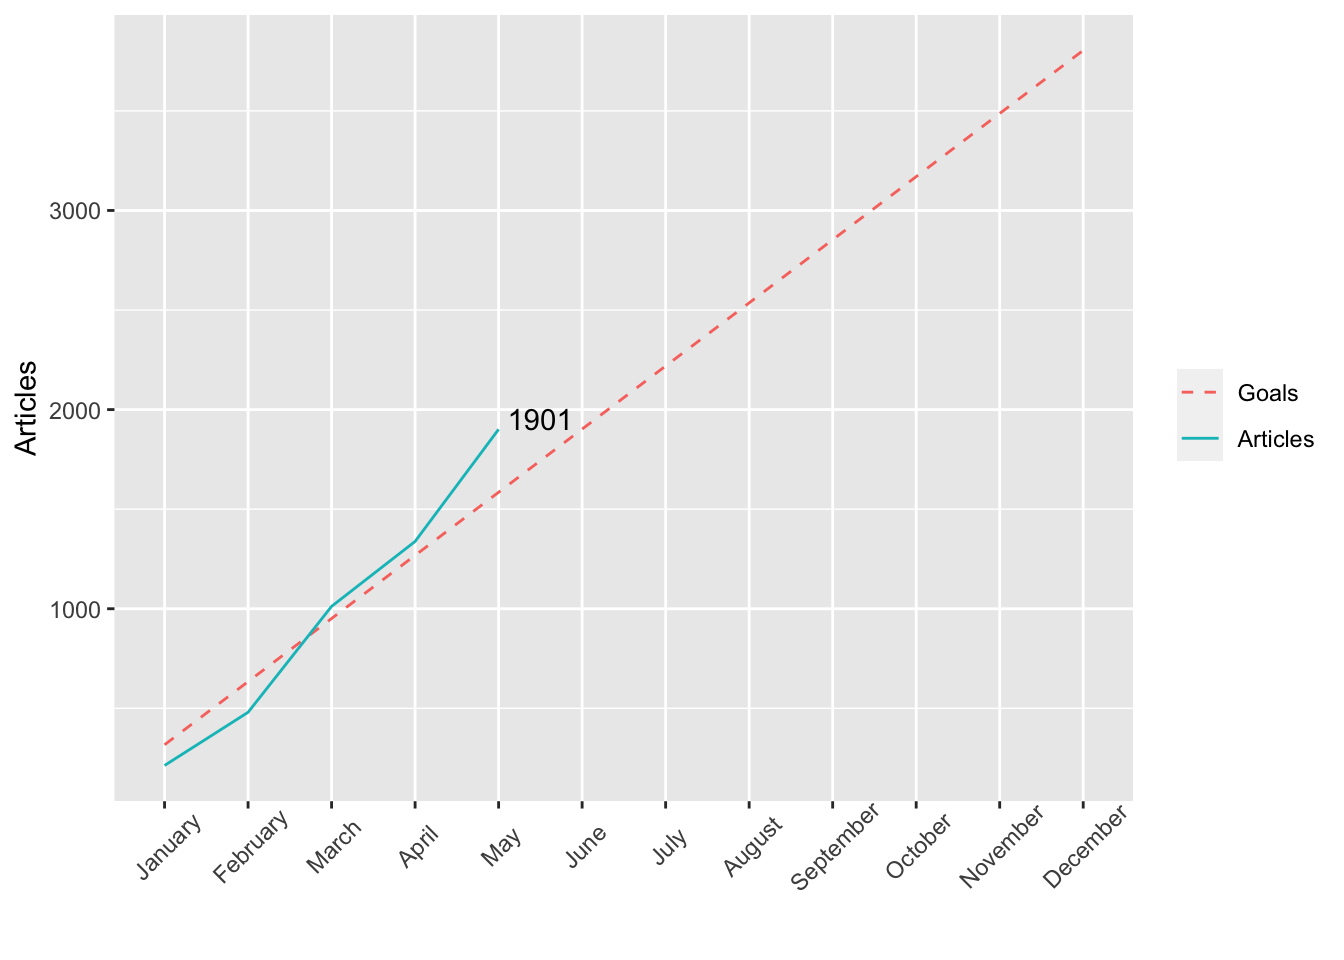
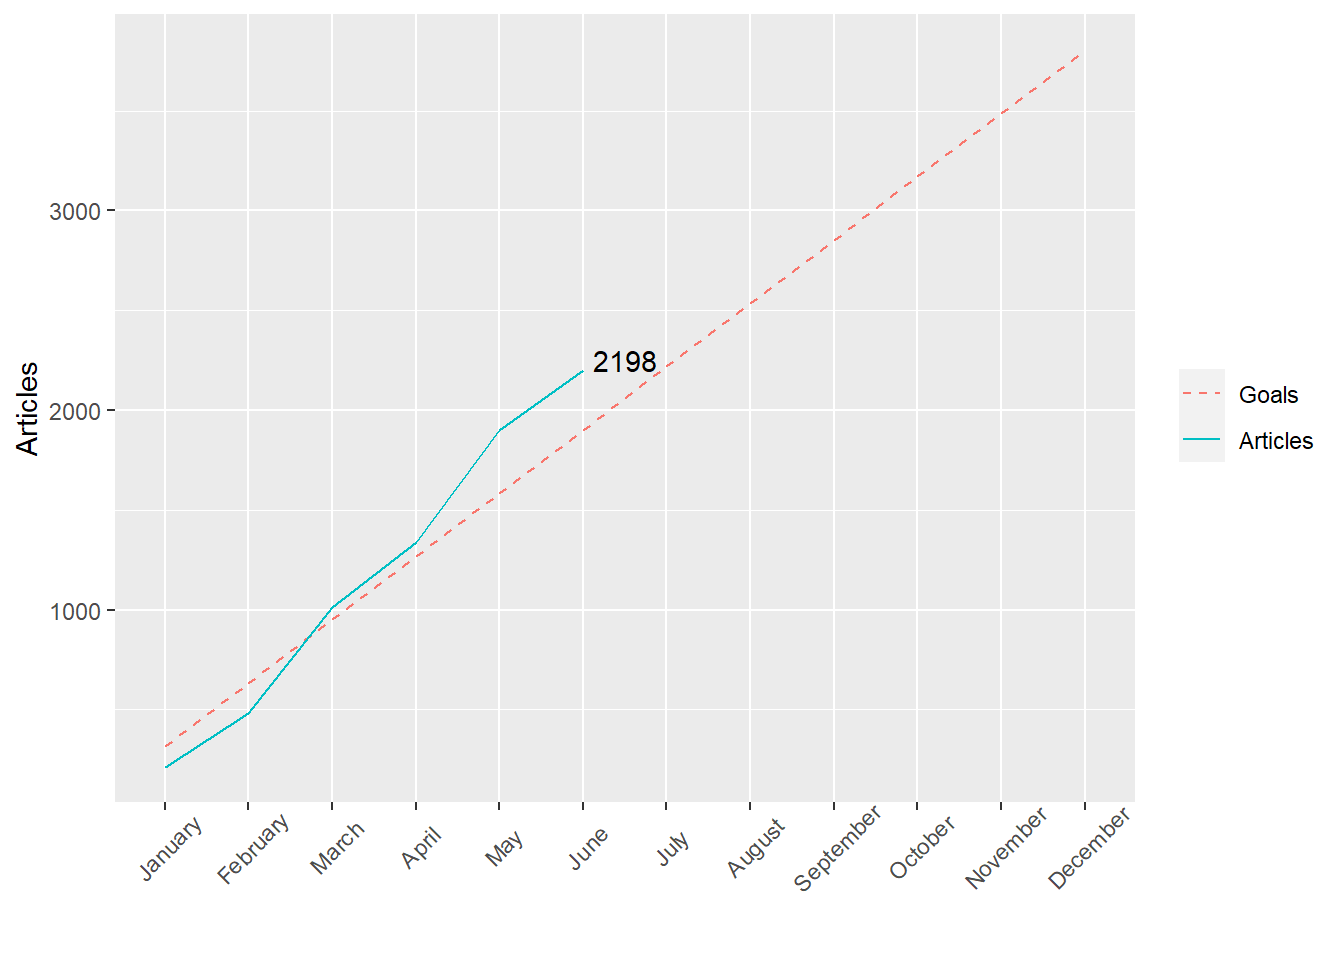
Updated the June YTD

diff --git a/docs/YearToDate.html b/docs/YearToDate.html
@@ -13,17 +13,25 @@
 
 <title>Year-To-Date</title>
 
+<script src="site_libs/header-attrs-2.9/header-attrs.js"></script>
 <script src="site_libs/jquery-1.11.3/jquery.min.js"></script>
 <meta name="viewport" content="width=device-width, initial-scale=1" />
 <link href="site_libs/bootstrap-3.3.5/css/bootstrap.min.css" rel="stylesheet" />
 <script src="site_libs/bootstrap-3.3.5/js/bootstrap.min.js"></script>
 <script src="site_libs/bootstrap-3.3.5/shim/html5shiv.min.js"></script>
 <script src="site_libs/bootstrap-3.3.5/shim/respond.min.js"></script>
+<style>h1 {font-size: 34px;}
+       h1.title {font-size: 38px;}
+       h2 {font-size: 30px;}
+       h3 {font-size: 24px;}
+       h4 {font-size: 18px;}
+       h5 {font-size: 16px;}
+       h6 {font-size: 12px;}
+       code {color: inherit; background-color: rgba(0, 0, 0, 0.04);}
+       pre:not([class]) { background-color: white }</style>
 <script src="site_libs/navigation-1.1/tabsets.js"></script>
 <link href="site_libs/highlightjs-9.12.0/default.css" rel="stylesheet" />
 <script src="site_libs/highlightjs-9.12.0/highlight.js"></script>
-<link href="site_libs/anchor-sections-1.0/anchor-sections.css" rel="stylesheet" />
-<script src="site_libs/anchor-sections-1.0/anchor-sections.js"></script>
 
 <style type="text/css">
   code{white-space: pre-wrap;}
@@ -35,11 +43,6 @@
     </style>
 
 <style type="text/css">code{white-space: pre;}</style>
-<style type="text/css">
-  pre:not([class]) {
-    background-color: white;
-  }
-</style>
 <script type="text/javascript">
 if (window.hljs) {
   hljs.configure({languages: []});
@@ -52,32 +55,7 @@ if (window.hljs) {
 
 
 
-<style type="text/css">
-h1 {
-  font-size: 34px;
-}
-h1.title {
-  font-size: 38px;
-}
-h2 {
-  font-size: 30px;
-}
-h3 {
-  font-size: 24px;
-}
-h4 {
-  font-size: 18px;
-}
-h5 {
-  font-size: 16px;
-}
-h6 {
-  font-size: 12px;
-}
-.table th:not([align]) {
-  text-align: left;
-}
-</style>
+
 
 
 
@@ -87,10 +65,6 @@ h6 {
   max-width: 940px;
   margin-left: auto;
   margin-right: auto;
-}
-code {
-  color: inherit;
-  background-color: rgba(0, 0, 0, 0.04);
 }
 img {
   max-width:100%;
@@ -107,40 +81,13 @@ button.code-folding-btn:focus {
 summary {
   display: list-item;
 }
+pre code {
+  padding: 0;
+}
 </style>
 
 
 <style type="text/css">
-/* padding for bootstrap navbar */
-body {
-  padding-top: 51px;
-  padding-bottom: 40px;
-}
-/* offset scroll position for anchor links (for fixed navbar)  */
-.section h1 {
-  padding-top: 56px;
-  margin-top: -56px;
-}
-.section h2 {
-  padding-top: 56px;
-  margin-top: -56px;
-}
-.section h3 {
-  padding-top: 56px;
-  margin-top: -56px;
-}
-.section h4 {
-  padding-top: 56px;
-  margin-top: -56px;
-}
-.section h5 {
-  padding-top: 56px;
-  margin-top: -56px;
-}
-.section h6 {
-  padding-top: 56px;
-  margin-top: -56px;
-}
 .dropdown-submenu {
   position: relative;
 }
@@ -168,7 +115,7 @@ body {
   margin-right: -10px;
 }
 .dropdown-submenu:hover>a:after {
-  border-left-color: #ffffff;
+  border-left-color: #adb5bd;
 }
 .dropdown-submenu.pull-left {
   float: none;
@@ -180,7 +127,7 @@ body {
 }
 </style>
 
-<script>
+<script type="text/javascript">
 // manage active state of menu based on current page
 $(document).ready(function () {
   // active menu anchor
@@ -191,10 +138,23 @@ $(document).ready(function () {
   var menuAnchor = $('a[href="' + href + '"]');
 
   // mark it active
-  menuAnchor.parent().addClass('active');
+  menuAnchor.tab('show');
 
   // if it's got a parent navbar menu mark it active as well
   menuAnchor.closest('li.dropdown').addClass('active');
+
+  // Navbar adjustments
+  var navHeight = $(".navbar").first().height() + 15;
+  var style = document.createElement('style');
+  var pt = "padding-top: " + navHeight + "px; ";
+  var mt = "margin-top: -" + navHeight + "px; ";
+  var css = "";
+  // offset scroll position for anchor links (for fixed navbar)
+  for (var i = 1; i <= 6; i++) {
+    css += ".section h" + i + "{ " + pt + mt + "}\n";
+  }
+  style.innerHTML = "body {" + pt + "padding-bottom: 40px; }\n" + css;
+  document.head.appendChild(style);
 });
 </script>
 
@@ -206,7 +166,6 @@ $(document).ready(function () {
   max-height: 500px;
   min-height: 44px;
   overflow-y: auto;
-  background: white;
   border: 1px solid #ddd;
   border-radius: 4px;
 }
@@ -299,12 +258,12 @@ $(document).ready(function () {
   </div><!--/.container -->
 </div><!--/.navbar -->
 
-<div class="fluid-row" id="header">
+<div id="header">
 
 
 
 <h1 class="title toc-ignore">Year-To-Date</h1>
-<h4 class="date">Last updated: 6/30/2021</h4>
+<h4 class="date">Last updated: 7/20/2021</h4>
 
 </div>
 
@@ -314,8 +273,8 @@ h1 {
   text-align: center;
 }
 </style>
-<div id="year-to-date-may-2021" class="section level1">
-<h1>Year-to-Date: May 2021</h1>
+<div id="year-to-date-june-2021" class="section level1">
+<h1>Year-to-Date: June 2021</h1>
 <table class="table table-condensed">
 <thead>
 <tr>
@@ -339,13 +298,13 @@ Percent Change (%)
 Twitter
 </td>
 <td style="text-align:right;">
-1695
+1942
 </td>
 <td style="text-align:right;">
-1868
+2641
 </td>
 <td style="text-align:right;">
-<span style="font-weight: bold; color: #ff7f7f">-10</span>
+<span style="font-weight: bold; color: #ff7f7f">-36</span>
 </td>
 </tr>
 <tr>
@@ -353,13 +312,13 @@ Twitter
 Facebook
 </td>
 <td style="text-align:right;">
-718
+740
 </td>
 <td style="text-align:right;">
-774
+1071
 </td>
 <td style="text-align:right;">
-<span style="font-weight: bold; color: #ff7f7f">-8</span>
+<span style="font-weight: bold; color: #ff7f7f">-45</span>
 </td>
 </tr>
 <tr>
@@ -370,10 +329,10 @@ Other Social
 35
 </td>
 <td style="text-align:right;">
-60
+115
 </td>
 <td style="text-align:right;">
-<span style="font-weight: bold; color: #ff7f7f">-71</span>
+<span style="font-weight: bold; color: #ff7f7f">-229</span>
 </td>
 </tr>
 <tr>
@@ -381,13 +340,13 @@ Other Social
 Online Articles
 </td>
 <td style="text-align:right;">
-1901
+2198
 </td>
 <td style="text-align:right;">
-1054
+1182
 </td>
 <td style="text-align:right;">
-<span style="font-weight: bold; color: #71CA97">45</span>
+<span style="font-weight: bold; color: #71CA97">46</span>
 </td>
 </tr>
 <tr>
@@ -395,13 +354,13 @@ Online Articles
 Radio
 </td>
 <td style="text-align:right;">
-159
+1241
 </td>
 <td style="text-align:right;">
-26
+31
 </td>
 <td style="text-align:right;">
-<span style="font-weight: bold; color: #71CA97">84</span>
+<span style="font-weight: bold; color: #71CA97">98</span>
 </td>
 </tr>
 <tr>
@@ -409,13 +368,13 @@ Radio
 TV
 </td>
 <td style="text-align:right;">
-2097
+2466
 </td>
 <td style="text-align:right;">
-1672
+1905
 </td>
 <td style="text-align:right;">
-<span style="font-weight: bold; color: #71CA97">20</span>
+<span style="font-weight: bold; color: #71CA97">23</span>
 </td>
 </tr>
 </tbody>
@@ -457,7 +416,7 @@ $(document).ready(function () {
 
 $(document).ready(function () {
   $('.tabset-dropdown > .nav-tabs > li').click(function () {
-    $(this).parent().toggleClass('nav-tabs-open')
+    $(this).parent().toggleClass('nav-tabs-open');
   });
 });
 </script>
